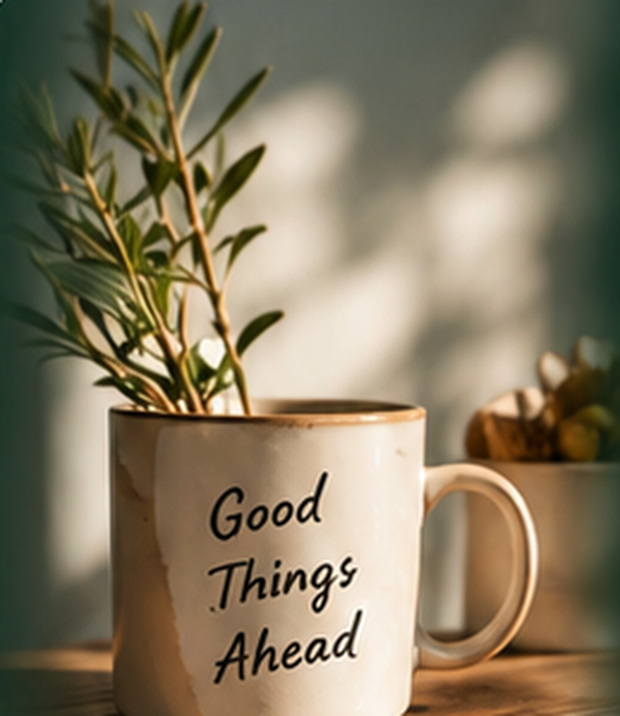
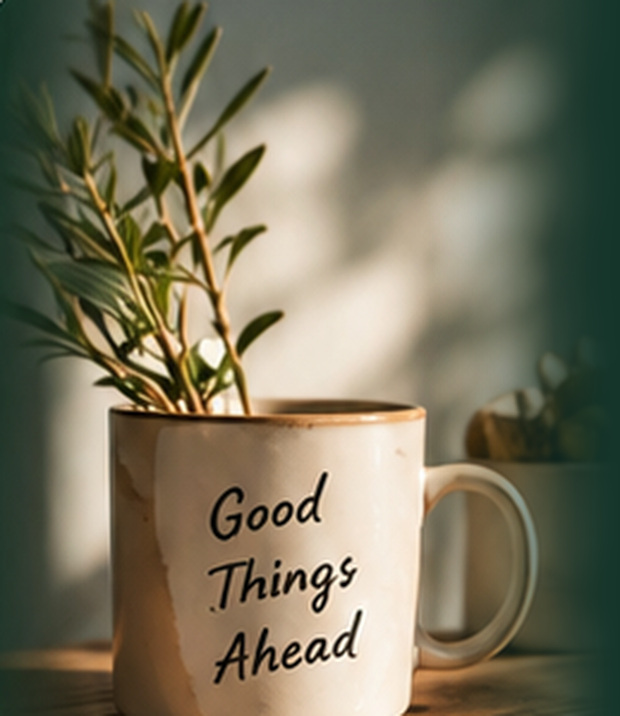
Match Morning Green mobile proportions to approved mockup

Changed region(s): [[0.7048, 0.0, 1.0, 1.0]]

diff --git a/packages/vfbriefux/MORNING-GREEN.html b/packages/vfbriefux/MORNING-GREEN.html
@@ -8,24 +8,25 @@
 <meta name="supported-color-schemes" content="light">
 <title>{{email_title}}</title>
 <style>
-html,body{margin:0!important;padding:0!important;width:100%!important;background:#eee8dc!important;font-family:Arial,"Helvetica Neue",sans-serif;color:#17372d}
+html,body{margin:0!important;padding:0!important;width:100%!important;background:#eee8dc!important;font-family:Arial,"Helvetica Neue",sans-serif;color:#17372d;-webkit-text-size-adjust:100%;-ms-text-size-adjust:100%}
 table{border-collapse:separate;border-spacing:0;mso-table-lspace:0pt;mso-table-rspace:0pt}
 td{mso-line-height-rule:exactly;word-break:normal;box-sizing:border-box} img{border:0;outline:none;text-decoration:none;display:block;height:auto;box-sizing:border-box}
 .preheader{display:none!important;visibility:hidden;opacity:0;color:transparent;height:0;width:0;overflow:hidden;mso-hide:all}
-.vf-green-shell{width:100%!important;max-width:680px!important}.vf-week-day{width:14.285%}.vf-stat{width:33.333%}.vf-insta-metric{width:33.333%}.vf-hero-copy{width:58%}.vf-hero-photo{width:42%}.vf-story-copy{width:56%}.vf-story-photo{width:44%}.vf-radar-photo{width:52%}.vf-radar-copy{width:48%}
+.vf-green-shell{width:100%!important;max-width:680px!important}.vf-week-day{width:14.285%}.vf-stat{width:33.333%}.vf-insta-metric{width:33.333%}.vf-hero-copy{width:64%}.vf-hero-photo{width:36%}.vf-story-copy{width:56%}.vf-story-photo{width:44%}.vf-radar-photo{width:52%}.vf-radar-copy{width:48%}
 @media only screen and (max-width:680px){
  .vf-outer{padding-left:0!important;padding-right:0!important}.vf-gap{padding-left:10px!important;padding-right:10px!important}
- .vf-hero-copy{width:58%!important;padding:20px 18px 20px 14px!important}.vf-hero-photo{width:42%!important;padding:0!important}
- .vf-hero{font-size:31px!important;line-height:36px!important;letter-spacing:-.2px!important}.vf-hero-summary{font-size:13px!important;line-height:20px!important}
- .vf-hero-photo img{width:100%!important;max-width:420px!important;margin:0 auto!important;border-radius:22px 0 0 22px!important}.vf-hero-img{height:320px!important;object-fit:cover!important;object-position:center!important}
- .vf-story-copy{width:56%!important;padding:20px 18px 20px 14px!important}.vf-story-photo{width:44%!important;padding:0 0 0 10px!important}
- .vf-story-photo img{width:100%!important;max-width:460px!important;margin:0 auto!important;border-radius:18px!important}.vf-story-img{height:190px!important;object-fit:cover!important;object-position:left center!important}
+ .vf-hero-copy{width:64%!important;padding:14px 16px 14px 14px!important}.vf-hero-photo{width:36%!important;padding:0!important}
+ .vf-brand{font-size:16px!important;line-height:19px!important}.vf-edition{font-size:8px!important;line-height:12px!important;margin-top:4px!important}.vf-date{font-size:10px!important;line-height:15px!important;margin-top:8px!important}
+ .vf-hero{font-size:28px!important;line-height:32px!important;letter-spacing:-.2px!important;margin-top:6px!important}.vf-hero-summary{font-size:11px!important;line-height:17px!important;margin-top:6px!important}.vf-hero-tag{font-size:8px!important;line-height:12px!important;margin-top:5px!important}
+ .vf-hero-photo img{width:100%!important;max-width:420px!important;margin:0 auto!important;border-radius:22px 0 0 22px!important}.vf-hero-img{height:210px!important;object-fit:cover!important;object-position:center!important}
+ .vf-story-copy{width:56%!important;padding:14px 16px 14px 14px!important}.vf-story-photo{width:44%!important;padding:8px 0 8px 8px!important}
+ .vf-story-photo img{width:100%!important;max-width:460px!important;margin:0 auto!important;border-radius:14px!important}.vf-story-img{height:100px!important;object-fit:cover!important;object-position:center!important}.vf-story-title{font-size:20px!important;line-height:24px!important;margin-top:6px!important}.vf-story-body{font-size:11px!important;line-height:17px!important;margin-top:6px!important}
  .vf-section{font-size:22px!important;line-height:28px!important}.vf-card-pad{padding-left:18px!important;padding-right:18px!important}
  .vf-week-day{padding-left:1px!important;padding-right:1px!important}.vf-feed-thumb{max-width:48px!important;height:52px!important}
  .vf-insta-metric{padding:14px 5px!important}.vf-insta-value{font-size:18px!important;line-height:23px!important}.vf-insta-label{font-size:9px!important;line-height:13px!important}
  .vf-stat{padding:17px 5px!important}.vf-stat-value{font-size:25px!important;line-height:31px!important}.vf-stat-label{font-size:10px!important;line-height:15px!important}
  .vf-item-cell{padding:11px 6px 3px!important}.vf-item-title{font-size:11px!important;line-height:16px!important}.vf-item-detail{font-size:9px!important;line-height:13px!important}
- .vf-radar-copy{width:48%!important;padding:18px 16px!important}.vf-radar-photo{width:52%!important}.vf-radar-img{height:132px!important;object-fit:cover!important;object-position:center!important}.vf-footer-pad{padding-left:10px!important;padding-right:10px!important}
+ .vf-radar-copy{width:48%!important;padding:14px 16px!important}.vf-radar-photo{width:52%!important}.vf-radar-img{height:54px!important;object-fit:cover!important;object-position:center!important}.vf-footer-pad{padding-left:10px!important;padding-right:10px!important}
 }
 </style>
 </head><body><div class="preheader">{{preheader}}</div>
@@ -35,16 +36,16 @@ td{mso-line-height-rule:exactly;word-break:normal;box-sizing:border-box} img{bor
 <tr><td class="vf-gap" style="padding:0 10px 10px">
 <table role="presentation" width="100%" dir="rtl" bgcolor="#15352b" style="width:100%;background:#15352b;border-radius:26px;overflow:hidden">
 <tr>
-<td class="vf-hero-copy" width="58%" valign="middle" dir="rtl" align="right" style="padding:28px 28px 28px 22px;background:#15352b;text-align:right">
-<div style="font-family:Georgia,'Times New Roman',serif;font-size:19px;line-height:23px;color:#fff8ec">Velvet Factory</div>
-<div style="font-size:10px;line-height:15px;letter-spacing:2.4px;color:#c7a566;font-weight:700;margin-top:7px">MORNING EDITION</div>
-<div style="font-size:12px;line-height:18px;color:#d7ceba;margin-top:14px">{{date_label}}</div>
+<td class="vf-hero-copy" width="64%" valign="middle" dir="rtl" align="right" style="padding:28px 28px 28px 22px;background:#15352b;text-align:right">
+<div class="vf-brand" style="font-family:Georgia,'Times New Roman',serif;font-size:19px;line-height:23px;color:#fff8ec">Velvet Factory</div>
+<div class="vf-edition" style="font-size:10px;line-height:15px;letter-spacing:2.4px;color:#c7a566;font-weight:700;margin-top:7px">MORNING EDITION</div>
+<div class="vf-date" style="font-size:12px;line-height:18px;color:#d7ceba;margin-top:14px">{{date_label}}</div>
 <div class="vf-hero" style="font-size:40px;line-height:46px;font-weight:700;color:#fff8ec;letter-spacing:-.5px;margin-top:9px">{{greeting}}</div>
 <div class="vf-hero-summary" style="font-size:15px;line-height:24px;color:#e2dac9;margin-top:8px;overflow-wrap:anywhere">{{daily_summary}}</div>
 <div style="width:50px;border-top:2px solid #c7a566;margin-top:14px"></div>
-<div style="font-size:10px;line-height:15px;letter-spacing:1.5px;color:#d0aa65;font-weight:700;margin-top:7px">ימים טובים עושים יותר</div>
+<div class="vf-hero-tag" style="font-size:10px;line-height:15px;letter-spacing:1.5px;color:#d0aa65;font-weight:700;margin-top:7px">ימים טובים עושים יותר</div>
 </td>
-<td class="vf-hero-photo" width="42%" valign="middle" align="center" bgcolor="#15352b" style="padding:0"><img class="vf-hero-img" src="{{top_image_url}}" alt="{{top_image_alt}}" width="420" style="width:100%;max-width:420px;height:auto;border-radius:26px 0 0 26px"></td>
+<td class="vf-hero-photo" width="36%" valign="middle" align="center" bgcolor="#15352b" style="padding:0"><img class="vf-hero-img" src="{{top_image_url}}" alt="{{top_image_alt}}" width="420" style="width:100%;max-width:420px;height:auto;border-radius:26px 0 0 26px"></td>
 </tr></table>
 </td></tr><tr><td class="vf-gap" style="padding:0 10px 10px">
 <table role="presentation" width="100%" dir="rtl" bgcolor="#f8f3e9" style="width:100%;background:#f8f3e9;border-radius:22px;overflow:hidden;box-shadow:0 5px 18px rgba(55,43,21,.06)">
@@ -62,8 +63,8 @@ td{mso-line-height-rule:exactly;word-break:normal;box-sizing:border-box} img{bor
 <table role="presentation" width="100%" dir="rtl" bgcolor="#15352b" style="width:100%;background:#15352b;border-radius:22px;overflow:hidden"><tr>
 <td class="vf-story-copy" width="56%" valign="middle" dir="rtl" align="right" style="padding:26px 24px 26px 20px;text-align:right">
 <div style="font-size:10px;line-height:15px;letter-spacing:1.6px;color:#d0aa65;font-weight:700">הסיפור של היום</div>
-<div class="vf-section" style="font-size:29px;line-height:35px;font-weight:700;color:#fff8ec;margin-top:8px;overflow-wrap:anywhere">{{story_title}}</div>
-<div style="font-size:14px;line-height:23px;color:#dfd7c6;margin-top:10px;overflow-wrap:anywhere">{{story_body}}</div>
+<div class="vf-section vf-story-title" style="font-size:29px;line-height:35px;font-weight:700;color:#fff8ec;margin-top:8px;overflow-wrap:anywhere">{{story_title}}</div>
+<div class="vf-story-body" style="font-size:14px;line-height:23px;color:#dfd7c6;margin-top:10px;overflow-wrap:anywhere">{{story_body}}</div>
 </td>
 <td class="vf-story-photo" width="44%" valign="middle" align="center" style="padding:0 0 0 10px"><img class="vf-story-img" src="{{story_image_url}}" alt="{{story_image_alt}}" width="460" style="width:100%;max-width:460px;height:auto;border-radius:18px"></td>
 </tr></table></td></tr>

diff --git a/packages/vfbriefux/render_morning_green.py b/packages/vfbriefux/render_morning_green.py
@@ -141,18 +141,20 @@ def instagram_metrics(data: object) -> tuple[str,str]:
         note_parts.append('Insights: '+str(row['insights_note']))
     return ''.join(cells), esc(' · '.join(note_parts))
 
-def item_grid(items: object, accent: str) -> str:
+def item_grid(items: object, accent: str, widths: list[float] | None = None) -> str:
     rows = list(items or [])[:4]
     if not rows:
         return '<td class="vf-item-cell" width="100%" dir="rtl" align="right" style="padding:12px 4px 2px;color:#7f847f;font-size:13px;line-height:19px;text-align:right">אין פריטים להצגה.</td>'
-    width = f"{100/len(rows):.3f}%"
+    if widths is None or len(widths) != len(rows):
+        widths = [100/len(rows)] * len(rows)
     cells: list[str] = []
     for idx, item in enumerate(rows):
         title = mixed_text(item.get("title") if isinstance(item, dict) else item)
         detail = mixed_text(item.get("detail") if isinstance(item, dict) else "")
         border = "" if idx == len(rows)-1 else "border-left:1px solid #e1d9cb;"
         detail_html = f'<div class="vf-item-detail" dir="rtl" style="font-size:10px;line-height:15px;color:#7f847f;margin-top:4px;text-align:right;overflow-wrap:anywhere">{detail}</div>' if detail else ""
-        cells.append(f'<td class="vf-item-cell" width="{width}" valign="top" dir="rtl" align="right" style="padding:13px 10px 4px;color:#17372d;text-align:right;overflow-wrap:anywhere;{border}"><div class="vf-item-title" style="font-size:12px;line-height:18px;font-weight:700"><span style="color:{accent}">&#9679;</span>&nbsp;{title}</div>{detail_html}</td>')
+        width = f"{widths[idx]:.3f}%"
+        cells.append(f'<td class="vf-item-cell" width="{width}" valign="top" dir="rtl" align="right" style="padding:11px 7px 3px;color:#17372d;text-align:right;overflow-wrap:anywhere;{border}"><div class="vf-item-title" style="font-size:11px;line-height:16px;font-weight:700"><span style="color:{accent}">&#9679;</span>&nbsp;{title}</div>{detail_html}</td>')
     return "".join(cells)
 
 def stat_cells(stats: object) -> str:
@@ -195,7 +197,7 @@ def render(data: dict, *, allow_local: bool = False, template: str | None = None
         "story_image_url": story_url, "story_image_alt": story_alt,
         "morning_line": esc(data["morning_line"]["text"]),
         "morning_line_note": esc(data["morning_line"].get("note") or ""),
-        "attention_html": item_grid(data.get("attention"), "#a85c44"),
+        "attention_html": item_grid(data.get("attention"), "#a85c44", [18.0, 27.333, 27.333, 27.334]),
         "progress_html": item_grid(data.get("progress"), "#4b8a64"),
         "radar_image_url": radar_url, "radar_image_alt": radar_alt,
         "radar_title": esc(data["radar"]["title"]), "radar_text": esc(data["radar"]["text"]),

diff --git a/scripts/check-morning-green.py b/scripts/check-morning-green.py
@@ -41,7 +41,7 @@ def main() -> None:
         "#15352b", "#f8f3e9", "#eee8dc", "MORNING EDITION", "בקרוב בפיד", "7 הימים הקרובים", "Instagram", "מצב החשבון",
         "{{scheduled_posts_html}}", "{{instagram_metrics_html}}", "{{instagram_note}}", "{{attention_html}}", "{{progress_html}}",
         "{{stats_html}}", "max-width:680px", "@media only screen and (max-width:680px)", "vf-hero-copy", "vf-hero-photo",
-        "vf-feed-thumb", "vf-insta-value", "vf-stat-value", "vf-item-cell", "vf-hero-img", "vf-story-img", "vf-radar-img", "ימים טובים עושים יותר", "{{radar_title}}", "max-width:420px", "max-width:460px", "{{footer_image_url}}",
+        "vf-feed-thumb", "vf-insta-value", "vf-stat-value", "vf-item-cell", "vf-hero-img", "vf-story-img", "vf-radar-img", "vf-brand", "vf-edition", "vf-date", "vf-hero-tag", "64%!important", "36%!important", "ימים טובים עושים יותר", "{{radar_title}}", "max-width:420px", "max-width:460px", "{{footer_image_url}}",
     ):
         if token not in template:
             fail(f"MORNING-GREEN.html missing {token!r}")
@@ -122,6 +122,8 @@ def main() -> None:
         fail("Morning Green renderer must isolate VF IDs for RTL mobile clients")
     if "rows.reverse()" not in renderer:
         fail("Morning Green KPI order must match the approved mockup visual order")
+    if "[18.0, 27.333, 27.333, 27.334]" not in renderer:
+        fail("Morning Green attention widths must protect VF IDs while matching the approved mockup")
 
     proc = subprocess.run([sys.executable, str(PACK / "render_morning_green.py"), "--check"], cwd=ROOT, text=True, capture_output=True)
     if proc.returncode != 0:

diff --git a/packages/vfbriefux/build_morning_green.py b/packages/vfbriefux/build_morning_green.py
@@ -80,6 +80,12 @@ def compact_attention(items: list[dict[str,str]]) -> list[dict[str,str]]:
     if out and out[0].get('title','').startswith('גבייה פתוחה אצל '):
         people=out[0]['title'].removeprefix('גבייה פתוחה אצל ').rstrip('.')
         out[0]={'title':'גבייה פתוחה','detail':people}
+    for item in out[1:]:
+        detail=str(item.get('detail') or '').strip().rstrip('.')
+        detail=re.sub(r'^סופק,\s*','',detail)
+        detail=detail.replace('טרם שולם, ','').replace('לגבייה, ','')
+        detail=detail.replace('מועד בגיליון ','מועד ')
+        item['detail']=detail
     return out
 
 def compact_progress(items: list[dict[str,str]]) -> list[dict[str,str]]:
@@ -91,7 +97,7 @@ def compact_progress(items: list[dict[str,str]]) -> list[dict[str,str]]:
             title='אירוע אחד היום - דיאנה ושון, 16:00-17:00 בבארי'
             detail=''
         elif title.startswith('הגבייה הפתוחה נשארה 4790'):
-            title='הגבייה הפתוחה נשארה 4790'
+            title='גבייה פתוחה: 4790'
             detail=''
         out.append({'title':title,'detail':detail})
     return out
@@ -133,7 +139,7 @@ def factual_datetime(factual: dict) -> datetime:
 
 def factual_date_label(factual: dict) -> str:
     d=factual_datetime(factual)
-    return f"{HE_DAYS[d.weekday()]} · {d.day} {HE_MONTHS[d.month]} {d.year}"
+    return f"{d.day} {HE_MONTHS[d.month]} {d.year}"
 
 def fallback_stats(factual: dict, sec: dict[str,list[str]]) -> list[dict[str,str]]:
     stats=[]

diff --git a/CHANGELOG.md b/CHANGELOG.md
@@ -9,7 +9,7 @@ and this project adheres to [Semantic Versioning](https://semver.org/spec/v2.0.0
 
 - 2026-09-23 — **Cognee → Grok Bot scheduler cutover staged fail-closed:** owner requested `Cognee Memory Sync` (daily 06:30) and `Cognee Stable Updates` (Monday 10:00) move from ChatGPT scheduling to the protected Grok Bot scheduler. Added `automation/grok/cognee-routines.json` with locked prompts, cadence, timezone and exact ChatGPT automation IDs. Provider activation is explicitly pending live Grok readback; ChatGPT copies remain enabled until both Grok routines are proven created/enabled with matching intent, then only those two copies may be disabled. No Git/manifest change is treated as provider proof.
 
-- 2026-09-23 — **Morning Green approved-mockup template fidelity:** rebuilt the real 09:00 email template around the owner-approved target concept instead of treating a generated mockup as the deliverable. The email canvas is warm cream with independent rounded cards; Hero and Story stay split green editorial compositions on mobile; attention/progress become compact horizontal rows; KPI/footer styling follows the approved concept. The four decorative CID assets were replaced with higher-resolution photographic crops from the approved concept language, eliminating the low-resolution/illustrated placeholder feel. Real Gmail iPhone QA then drove two fidelity passes: hero/story copy was compacted, Instagram/OpenPost duplication was removed from progress/radar, progress returned to three columns, VF IDs gained explicit non-breaking RTL isolation, Hero/Story/Radar image fill was tightened for mobile, KPI order was corrected to the approved visual order, the full footer brand line was restored from TARGET-CONCEPT, and visual QA is now required to rebuild from canonical factual sources instead of re-rendering stale intermediate JSON. The visual contract explicitly treats TARGET-CONCEPT fidelity and no illustrated placeholders as regression gates while preserving live jobs/books/calendar/OpenPost/Instagram data semantics.
+- 2026-09-23 — **Morning Green approved-mockup template fidelity:** rebuilt the real 09:00 email template around the owner-approved target concept instead of treating a generated mockup as the deliverable. The email canvas is warm cream with independent rounded cards; Hero and Story stay split green editorial compositions on mobile; attention/progress become compact horizontal rows; KPI/footer styling follows the approved concept. The four decorative CID assets were replaced with higher-resolution photographic crops from the approved concept language, eliminating the low-resolution/illustrated placeholder feel. Real Gmail iPhone QA then drove three fidelity passes: hero/story copy was compacted, Instagram/OpenPost duplication was removed from progress/radar, progress returned to three columns, VF IDs gained explicit non-breaking RTL isolation, the attention grid now gives the summary 18% and each receivable about 27% to keep IDs intact, the mobile Hero is locked to a 64/36 copy/photo proportion, Story and Radar return to landscape/banner proportions, KPI order matches the approved visual order, the full footer brand line was restored from TARGET-CONCEPT, and visual QA must rebuild from canonical factual sources instead of stale intermediate JSON. The visual contract explicitly treats TARGET-CONCEPT fidelity and no illustrated placeholders as regression gates while preserving live jobs/books/calendar/OpenPost/Instagram data semantics.
 
 - 2026-09-23 — **Cognee Windows state-pointer cutover:** moved the live derived-index pointer to `~/.velvetos/cognee/active-state.json` after repeated Windows delete-sharing locks prevented atomic replacement of the legacy `state.json`. The old file is retained untouched as rollback evidence; the new pointer still uses same-directory unique temp files, `fsync`, bounded replace retries and readback verification, so no non-atomic fallback was introduced.
 

diff --git a/packages/vfbriefux/MORNING-GREEN.md b/packages/vfbriefux/MORNING-GREEN.md
@@ -16,7 +16,7 @@
 - הרצועה מציגה תמיד את 7 הימים הקרובים, עמודה לכל יום, עם thumbnail קטן + שעה/סוג רק כשיש schedule חי; יום ללא פרסום נשאר תא שקט ולא מומצא.
 - `Instagram` הוא מדור נפרד ללא thumbnails: עוקבים, מעורבות מאומתת בפוסט האחרון, שינוי מאז הבריף הקודם, והערת Insights/Reach רק אם המקור מספק אותם.
 - QA חזותי אחרי שינוי תבנית חייב להריץ מחדש את `build_morning_green.py` ממקורות ה־brief העובדתיים + OpenPost העדכני. אסור לבדוק תבנית חדשה על JSON ביניים היסטורי ששמר כפילויות/מבנה ישן.
-- במובייל מזהי `VF-YYYYMMDD-NNN` חייבים להישאר יחידה אחת ולא להישבר באמצע. כרטיסי Hero/Story/Radar צריכים לשמור יחס חזותי מלא מול ה־TARGET, וה־KPI מוצגים חזותית משמאל לימין: גבייה, אירועים, ייצור.
+- במובייל מזהי `VF-YYYYMMDD-NNN` חייבים להישאר יחידה אחת ולא להישבר באמצע. כרטיס ה־Hero נשען על יחס 64% תוכן / 36% צילום, ה־Story נשאר landscape רחב, וה־Radar נשאר banner נמוך כמו ב־TARGET. בכרטיס `דורש תשומת לב` עמודת הסיכום צרה ושלוש עמודות הגבייה רחבות יותר כדי לשמור IDs שלמים. ה־KPI מוצגים חזותית משמאל לימין: גבייה, אירועים, ייצור.
 
 ## אמת בפרסום
 
